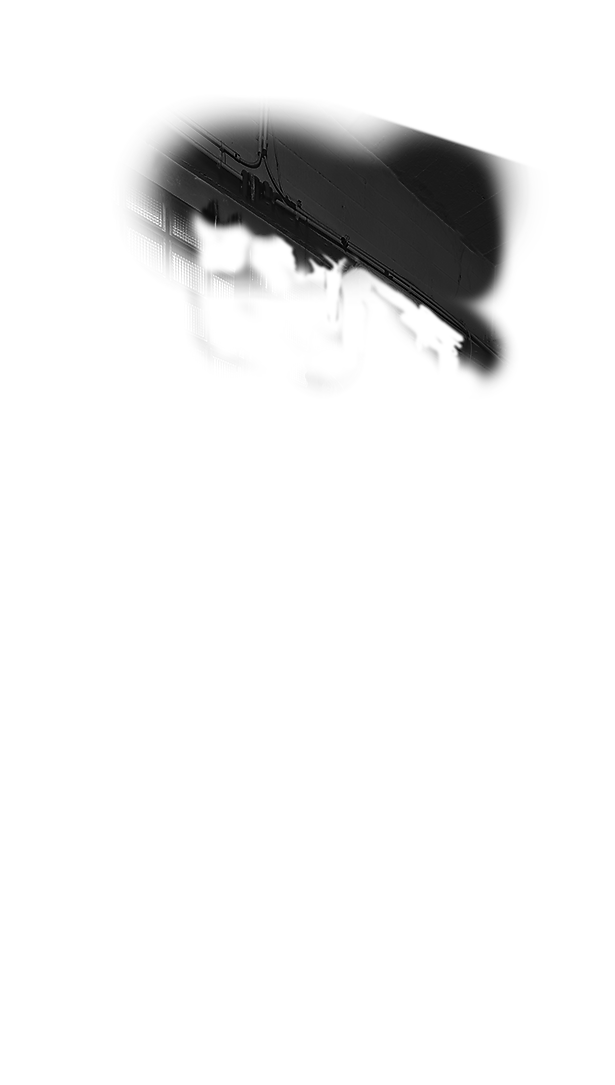
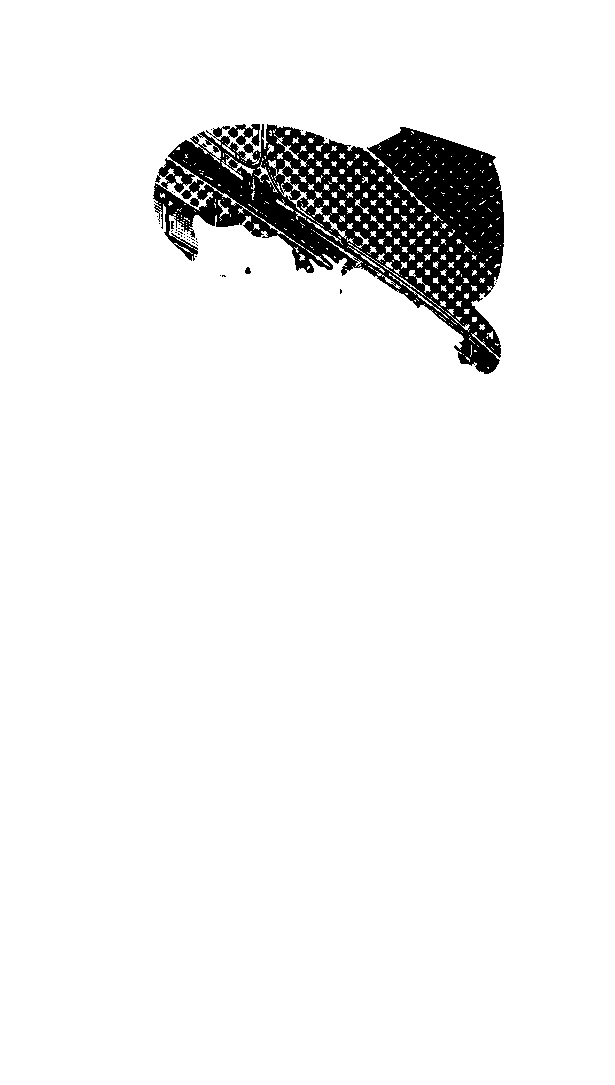
Des layers tramés, des backgrounds pleines pages, un aperçu de cover en direct sur le html

Changed region(s): [[0.2163, 0.0912, 0.865, 0.365]]

diff --git a/programme/supplement/supplement.html b/programme/supplement/supplement.html
@@ -1,12 +1,7 @@
 <section id="body" class="supplement">
 
-<article id="cover" style="height: 1200px;">
-    <h1 class="supplement">La Balsamine, saison 2013-2014</h1>
-
-    <h2 class="supplement">Balsamiquement vôtre, petit guide à l’usage des écoles et des associations </h2>
-
-    <h3>Qu’est-ce qui me fait sortir la tête de l’eau? <br/>
-    thème de médiation artistique</h3>
+<article id="cover" style="background-position: -851px;" class="bordure-bariolee">
+&nbsp;
 </article>
 
 
@@ -134,9 +129,9 @@
     </div>
     
     
-    <div class="full" style="width: 20%; margin-bottom: -170px; height: 270px;">
-        <img alt="" class="preview" src="../photos/layers-processed/orgasm/orgasm_Calque 1 copie.png" style="width: 150%; z-index:-30; margin-left: -20px;" />
-        <img alt="" class="noir rose" src="../photos/layers-processed/orgasm/orgasm_Calque 1 copie.png" style="width: 150%; z-index:-30; margin-left: -20px;" />
+    <div class="full" style="width: 27%; height: 237px;">
+        <img alt="" class="preview" src="../photos/layers-processed/orgasm/orgasm_Calque 1 copie.png" style="width: 163%; z-index:-30; margin-left: -40px;" />
+        <img alt="" class="noir rose" src="../photos/layers-processed/orgasm/orgasm_Calque 1 copie.png" style="width: 163%; z-index:-30; margin-left: -40px;" />
     </div>
     
     <div class="fiche" style="width: 37%;">
@@ -181,8 +176,8 @@
     </div>
 
     <div class="image-cmjn" style="width: 33%; height:146px;">
-        <img alt="" class="preview" src="../photos/reprises/les_moutons.jpg" style="width: 1230px; z-index:-30; margin-left: -70px; margin-top: -1122px;" />
-        <img alt="" class="noir rose" src="../photos/reprises/les_moutons.jpg" style="width: 1230px; z-index:-30; margin-left: -70px; margin-top: -1122px;" />
+        <img alt="" class="preview" src="../photos/reprises/les_moutons.png" style="width: 1230px; z-index:-30; margin-left: -70px; margin-top: -1122px;" />
+        <img alt="" class="noir rose" src="../photos/reprises/les_moutons.png" style="width: 1230px; z-index:-30; margin-left: -70px; margin-top: -1122px;" />
     </div>
 
     <div class="bible" style="width:32%;">
@@ -211,8 +206,8 @@
     
         
     <div class="image-cmjn" style="width: 63%; height:164px;">
-        <img alt="" class="preview" src="../photos/reprises/les_moutons.jpg" style="width: 1230px; z-index:-30; margin-left: -70px; margin-top: -823px;" />
-        <img alt="" class="noir rose" src="../photos/reprises/les_moutons.jpg" style="width: 1230px; z-index:-30; margin-left: -70px; margin-top: -823px;" />
+        <img alt="" class="preview" src="../photos/reprises/les_moutons.png" style="width: 1230px; z-index:-30; margin-left: -70px; margin-top: -823px;" />
+        <img alt="" class="noir rose" src="../photos/reprises/les_moutons.png" style="width: 1230px; z-index:-30; margin-left: -70px; margin-top: -823px;" />
     </div>
     
     <div class="fiche shasha">
@@ -252,8 +247,8 @@
 <article id="jai-endure-vos-discours">
 
     <div class="image-cmjn turn-skiev-2" class="image-cmjn" style="width: 115%; height:215px; margin-left:-100px; margin-bottom:40px;">
-        <img alt="" class="preview" src="../photos/layers/annedroite/anne__MG_4923.CR2.png" style="width: 100%; margin-top:-272px" /> 
-    <img alt="" class="noir vert" src="../photos/layers/annedroite/anne__MG_4923.CR2.png" style="width: 100%; margin-top:-272px" /> 
+        <img alt="" class="preview" src="../photos/layers-processed/annedroite/anne__MG_4923.CR2.png" style="width: 100%; margin-top:-272px" /> 
+    <img alt="" class="noir vert" src="../photos/layers-processed/annedroite/anne__MG_4923.CR2.png" style="width: 100%; margin-top:-272px" /> 
    </div>
 
     <div class="titre" style="width: 50%">
@@ -313,8 +308,8 @@
     </div>
     
     <div class="image-cmjn" style="width: 70%; height:132px;">
-        <img alt="" class="preview" src="../photos/layers/annedroite/anne_Calque1.png" style="width: 138%; margin-left: -280px; margin-top: -330px;" />
-        <img alt="" class="noir rose" src="../photos/layers/annedroite/anne_Calque1.png" style="width: 138%; margin-left: -280px; margin-top: -330px;" />
+        <img alt="" class="preview" src="../photos/layers-processed/annedroite/anne_Calque1.png" style="width: 138%; margin-left: -280px; margin-top: -330px;" />
+        <img alt="" class="noir rose" src="../photos/layers-processed/annedroite/anne_Calque1.png" style="width: 138%; margin-left: -280px; margin-top: -330px;" />
     </div>
     
     <div class="fiche">        
@@ -408,9 +403,9 @@
         <p>Utilisant les matières plastiques de manière ludique et inventive, ces performances danse enchanteront le tout public</p>
     </div>
 
-          <div class="image-cmjn" style="width:58%;height: 215px; outline: none; margin-left: 15px; z-index: -10;">
-            <img alt="" class="noir vert" src="../materials/extract/cinema.gif" style="width: 110%; margin-top: -313px;" />
-            <img alt="" class="preview" src="../materials/extract-G/cinema.gif" style="width: 110%; margin-top: -313px;" />
+          <div class="image-cmjn" style="width:28%;height: 325px; outline: none; margin-left: 15px; z-index: -10;">
+            <img alt="" class="noir vert" src="materials/supplement/garage29-G.png" style="width: 180%;" />
+            <img alt="" class="preview" src="materials/supplement/garage29-G.png" style="width: 180%;" />
         </div>
         
     
@@ -422,19 +417,22 @@
         </p>
     </div>
 
-    <div class="atelier">
+    <div class="texte" style="width: 40%;">
         <p>
-        14H : atelier ludique pour enfants à partir de 6 ans d’une part, et pour leurs parents d’autre part, autour de la matière plastique et des thèmes tels que l’obscurité, la monstruosité… 
+        <span class="intitule">14h00</span> <br/>
+        Atelier ludique pour enfants à partir de 6 ans d’une part, et pour leurs parents d’autre part, autour de la matière plastique et des thèmes tels que l’obscurité, la monstruosité… 
         </p>
     </div>
-    <div class="atelier">   
+    <div class="texte" style="width: 31%;">   
         <p>
-        16h : «Monsters», spectacle de danse pour jeune public autour des matériaux utilisés dans l’atelier, toujours sur le thème de la monstruosité
+        <span class="intitule">16h00</span> <br/>
+        <em>«Monsters»</em>, spectacle de danse pour jeune public autour des matériaux utilisés dans l’atelier, toujours sur le thème de la monstruosité
         </p>
     </div>
-    <div class="atelier">
+    <div class="texte" style="width: 17%;">
         <p>
-        19h : Dîner-concert avec «invités surprises».
+        <span class="intitule">19h00</span> <br/>
+        Dîner-concert avec «invités surprises»
         </p>
     </div>
 </article>
@@ -497,6 +495,12 @@
             <dd>Sémie, Stéphanie Scultore, Herbert Schuller et Dimitri Megos</dd>
         </dl>
     </div>
+
+    <div class="image-cmjn" style="width: 43%; height:204px;">
+        <img alt="" class="preview" src="../photos/reprises/beguinage-anderlecht9_nb.jpg" style="width: 790px; z-index:-30; margin-left: -340px; margin-top: -117px;" />
+        <img alt="" class="noir rose" src="../photos/reprises/beguinage-anderlecht9_nb.jpg" style="width: 790px; z-index:-30; margin-left: -340px; margin-top: -117px;" />
+    </div>
+
     <div class="production" style="width:43%;">
         <p>
         Une production de Mothership asbl, en coproduction avec la Balsamine avec l'aide du Service général des Arts de la Scène de la Fédération Wallonie-Bruxelles, Service Théâtre et le soutien du WBTD (aide à la diffusion).
@@ -538,8 +542,8 @@
 <article id="k-barre">
 
     <div class="image-cmjn turn-skiev-4" class="image-cmjn" style="width: 121%; height:260px; margin-left:-100px; margin-bottom:40px;">
-        <img alt="" class="preview" src="../photos/layers/k-barre/kbarre_Calque31.png" style="width: 100%; margin-top:-749px" /> 
-    <img alt="" class="noir vert" src="../photos/layers/k-barre/kbarre_Calque31.png" style="width: 100%; margin-top:-749px" /> 
+        <img alt="" class="preview" src="../photos/layers-processed/k-barre/kbarre_Calque31.png" style="width: 100%; margin-top:-749px" /> 
+    <img alt="" class="noir vert" src="../photos/layers-processed/k-barre/kbarre_Calque31.png" style="width: 100%; margin-top:-749px" /> 
    </div>
 
     <div class="titre" style="width: 50%;">
@@ -570,8 +574,8 @@
     </div>
     
    <div class="image-cmjn" class="image-cmjn" style="width: 48%; height:230px; margin-right:12px; margin-bottom:40px; clear:left">
-        <img alt="" class="preview" src="../photos/layers/k-barre/kbarre_Calque18.png" style="width: 208%; margin-top:-308px; margin-left:-308px" /> 
-        <img alt="" class="noir vert" src="../photos/layers/k-barre/kbarre_Calque18.png" style="width: 208%; margin-top:-308px; margin-left:-308px"/> 
+        <img alt="" class="preview" src="../photos/layers-processed/k-barre/kbarre_Calque18.png" style="width: 208%; margin-top:-308px; margin-left:-308px" /> 
+        <img alt="" class="noir vert" src="../photos/layers-processed/k-barre/kbarre_Calque18.png" style="width: 208%; margin-top:-308px; margin-left:-308px"/> 
    </div>
     
     
@@ -772,6 +776,10 @@
 </table>
 
 
+    <div class="image-cmjn" style="width: 100%; height: 84px;">
+        <img alt="" class="preview" src="../materials/extract-G/pinceau.gif" style="width: 100%;" />
+        <img alt="" class="noir vert" src="../materials/extract/pinceau.gif" style="width: 100%;" />
+    </div>
 
 <div class="pratique">
     <p>
@@ -779,7 +787,7 @@
     </p>
 </div>
 
-<div style="width: 24%">
+<div style="width: 26%">
     <div class="pratique">
         <p>
         À titre d’exemples :
@@ -804,19 +812,13 @@
     </p>
 </div>
 
-<div class="pratique">
+<div class="pratique" style="width: 50%;">
     <p>
     <span class="intitule">Les performances interactives</span> <br/> Une équipe de 2 ou 3 personnes (une attachée pédagogique : Isabelle Colassin, un des deux directeurs artistiques de la Balsamine : Monica Gomes et Fabien Dehasseler, et un éventuel artiste) viendront à vous en tant que pédagogues singuliers de leur pratique et en tant que performeurs. Pendant 50 minutes, nous vous inviterons à pénétrer dans des univers particuliers en partageant et en « actant » un aspect des créations proposées dans notre saison.
     </p>
 </div>
 
-<div class="pratique">
-    <p>
-    Institut Vallée Bailly, performance écritures scéniques
-    </p>
-</div>
-
-<div class="pratique" style="margin-bottom: 101px;">
+<div class="pratique" style="width: 50%; height: 348px;">
     <p>
     <span class="intitule">Les ateliers Balsa</span> donnés ponctuellement, le samedi, par les artistes de chaque spectacle, ils permettent de rencontrer autrement la démarche artistique des créateurs. Vous formerez un petit groupe de 15 à 20 personnes maximum et pourrez vivre une démarche artistique de l’intérieur. L’atelier est gratuit pour le public mais il est obligatoire de réserver pour y participer. 
     </p>
@@ -826,17 +828,14 @@
 
 
 
-<article id="mediation-artistique">
-
-    <div class="image-cmjn" style="width: 125%;outline: none; position: absolute; z-index: -1000; overflow: visible;left: -120px;top: -227px;">
-        <img alt="" class="preview" src="../materials/extract-G/circles-and-lines-170.gif" style="width: 100%;" /> 
-        <img alt="" class="noir vert" src="../materials/extract/circles-and-lines-170.gif" style="width: 100%;" /> 
-    </div> 
+<article id="mediation-artistique" class="bordure-bariolee">
 
 
-<div class="partsup">Projet de médiation artistique</div>
-<h2 class="supplement">qu’est-ce qui me fait sortir la tête de l’eau ?</h2>
 
+<div style="text-align: center; float: none;">
+    <h1 class="partsup" style="display: inline-block">Projet de médiation artistique</h1>
+    <h2 class="supplement" style="display: inline-block">qu’est-ce qui me fait sortir la tête de l’eau ?</h2>
+</div>
 
     <p>
     Qu’est-ce qui nous fait hurler de plaisir tous les matins ? Qu’est-ce qui nous fait grimper aux murs ? Qu’est-ce qui fait que l’on chante à tue-tête parce que, dans l’air, il y a quelque chose? Où allons-nous en cachette pour recharger nos batteries? Pourquoi ce truc, on le fait, on l’écoute, on le sent, on le voit, on le touche, encore et encore ? Pourquoi on aime cela par dessus tout ? Quels sont ces petits plus de la vie, ces petits extras qui nous font parfois sourire quand nous avons besoin de pleurer ? Parfois, on oublie de regarder, parfois on vit sur des rails. Mais la vie est là, brute, belle, émouvante. La question de l’art est une question de partage du sensible. Et c’est ce que nous vous proposons. C’est une question de patrimoine commun, l’idée de mettre l’art comme but de lien social et que l’art du dehors rejoigne l’art du dedans. 
@@ -872,13 +871,13 @@
 
 
 
-<div class="page-break" style="height: 190px; margin-bottom: 80px;"></div>
+<div class="page-break"></div>
 
 
 
-<article id="infos-pratiques">
+<article id="infos-pratiques" class="bordure-bariolee">
 
-    <div class="partsup">Informations pratiques</div>
+    <h1 class="partsup" style="width: 50%;">Informations pratiques</h1>
 
     <div class="pratique" style="outline: none">
         <p>
@@ -892,17 +891,16 @@
      <!--</div>-->
 
      <div class="pratique numbers" style="width:70%;  text-transform: none">
-         <span class="lettrine">Tarifs de groupe</span>
-         <div class="pratique" style="width: 41%; height: 256px; ">
-             Le paiement des réservations de groupe doit s’effectuer 10&nbsp;jours avant la date de représentation choisie.
-         </div>
-         <div class="pratique numbers" style="width: 59%; ">
-             <span class="intitule">Groupe adulte</span> (à partir de 10 personnes) : 10€ la place + 1 place offerte à l’organisateur
-         </div>
-         <div class="pratique numbers" style="width: 59%; ">
-             <span class="intitule">Groupe étudiant</span> (à partir de 10 personnes) : 6€ la place + 1 place offerte à l’enseignant
-         </div>
-     </div>
+         <span class="lettrine">Tarifs de groupe</span> <div class="pratique"
+             style="width: 41%; height: 256px; "> Le paiement des réservations
+             de groupe doit s’effectuer 10&nbsp;jours avant la date de
+             représentation choisie.  </div> <div class="pratique numbers"
+             style="width: 59%; "> <span class="intitule">Groupe adulte</span>
+             (à partir de 10 personnes) : 10€ la place + 1 place offerte à
+             l’organisateur </div> <div class="pratique numbers" style="width:
+             59%; "> <span class="intitule">Groupe étudiant</span> (à partir de
+             10 personnes) : 6€ la place + 1 place offerte à l’enseignant
+     </div> </div>
 
      <div class="pratique numbers" style="width:20%;  text-transform: none; ">
          <span class="intitule">Article 27</span> et <span class="intitule">Arsène 50</span>
@@ -916,28 +914,32 @@
      </div>
 
     <div class="image-cmjn" style="width: 100%; height: 84px;">
-        <img alt="" class="preview" src="../materials/extract-G/pinceau.gif" style="width: 214%; margin-left: -110px; margin-top: -110px;" />
-        <img alt="" class="noir vert" src="../materials/extract/pinceau.gif" style="width: 214%; margin-left: -110px; margin-top: -110px;" />
+        <img alt="" class="preview" src="../materials/extract-G/pinceau.gif" style="width: 100%;" />
+        <img alt="" class="noir vert" src="../materials/extract/pinceau.gif" style="width: 100%;" />
     </div>
 
     <div class="pratique">
         <p>
-        Théâtre la Balsamine<br />
+        <span class="lettrine">Théâtre la Balsamine</span><br />
         Avenue Félix Marchal, 1<br />
         1030 Bruxelles 
         </p>
     </div>
-    <div class="pratique" style="width: 29%">
+    <div class="pratique" style="width: 46%">
         <p>
-        Numéro de réservation général : 02 737 70 18
+        <span class="lettrine">Numéro de réservation général</span><br /> 02 737 70 18
         </p>
     </div>
     <div class="pratique">
         <p>
-        <span class="lettrine">Bus et metro</span><br />
+        <span class="lettrine">Bus et métro</span><br />
         Bus 29, 64, 28, 61 (Dailly) &mdash; Bus 63 (Plasky) &mdash; Tram 25 (Meiser) &mdash; Bus 410, 358, 351, 318 (Dailly) &mdash; Metro Madou &mdash; Collecto 051 Dailly &mdash;  Villo &mdash; Bus de nuit N05 (Plasky) et N04 (Meiser)
         </p>
     </div>
+</article>
+
+<article id="back-cover" class="bordure-bariolee" style="page-break-before: always;">
+&nbsp;
 </article>
 </section>
 
@@ -999,7 +1001,7 @@
                 // BORDURES BARIOLÉES
                 $("section#body.export article.bordure-bariolee").each(function(){
                     url = $(this).css("background-image");
-                    url = url.replace("extract-G", "extract");
+                    url = url.replace("-G", "");
                     $(this).css("background-image", url);
                 });
                 // IMAGES
